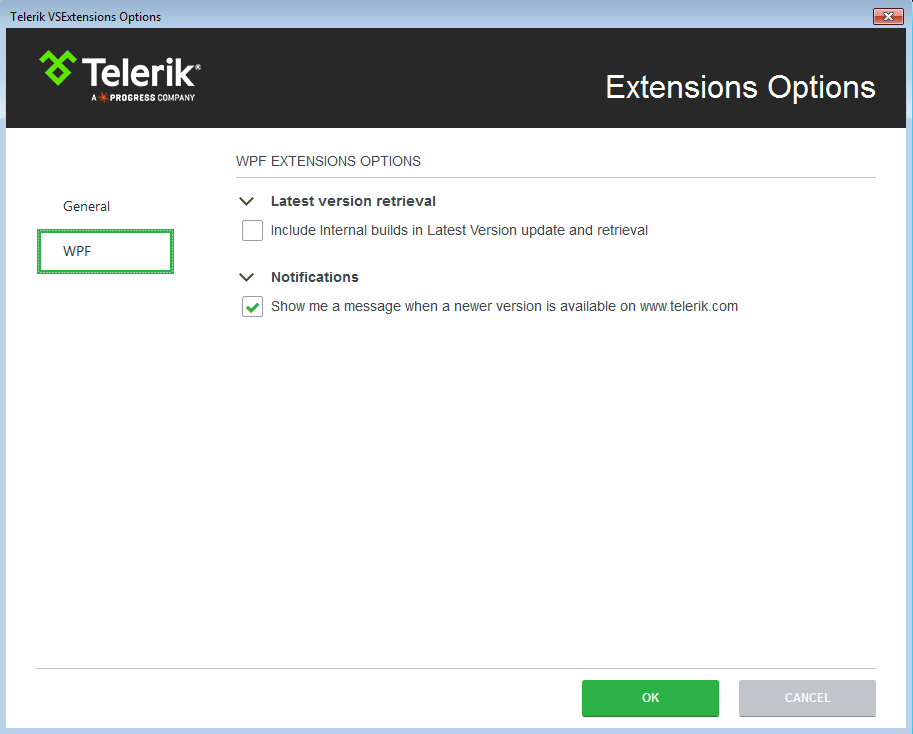
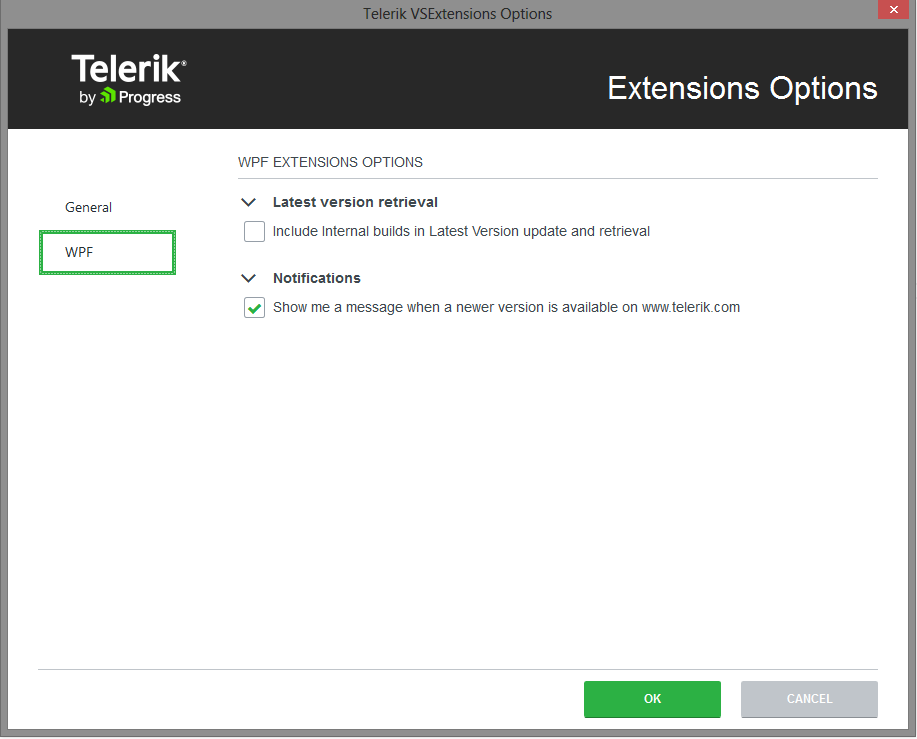
Updated texts and images for the Options dialog

diff --git a/visual-studio-extensions/vs-extensions-options.md b/visual-studio-extensions/vs-extensions-options.md
@@ -35,8 +35,7 @@ The settings under the __General__ category affect all of the installed __Teleri
 
 __Suggest project upgrades for Telerik product version available on my computer__ – When enabled, you will be prompted to upgrade upon opening a project, which is not using the latest version of Telerik UI installed on your system
 
-__Suggest upgrades when an equal Dev release detected on projects using a Trial__– When enabled, you will be prompted to upgrade if a licensed version of UI for {% if site.site_name == 'Silverlight' %}Silverlight{% endif %}{% if site.site_name == 'WPF' %}WPF{% endif %} is available on your system, but the current project uses a trial version
-
+__Suggest upgrades when an equal Dev release is detected on projects using a Trial__– When enabled, you will be prompted to upgrade if a licensed version of UI for {% if site.site_name == 'Silverlight' %}Silverlight{% endif %}{% if site.site_name == 'WPF' %}WPF{% endif %} is available on your system, but the current project uses a trial version
 
 ## Select a Folder for Downloads
 
@@ -45,6 +44,9 @@ Configures the path where the extensions look for and store distributions.
 
 >Changing the folder path will not move existing folder contents from your previous path. Please, move your previous folder contents manually in case you still want to use them.
 
+All settings under the UI for {% if site.site_name == 'Silverlight' %}Silverlight{% endif %}{% if site.site_name == 'WPF' %}WPF{% endif %} category affect only the respective product.
+
+![VSExtensions Options Dialog Product Specific](images/VSExtentions_WPF_OptionsDialog.png)
 
 ## Latest Version Retrieval
 
